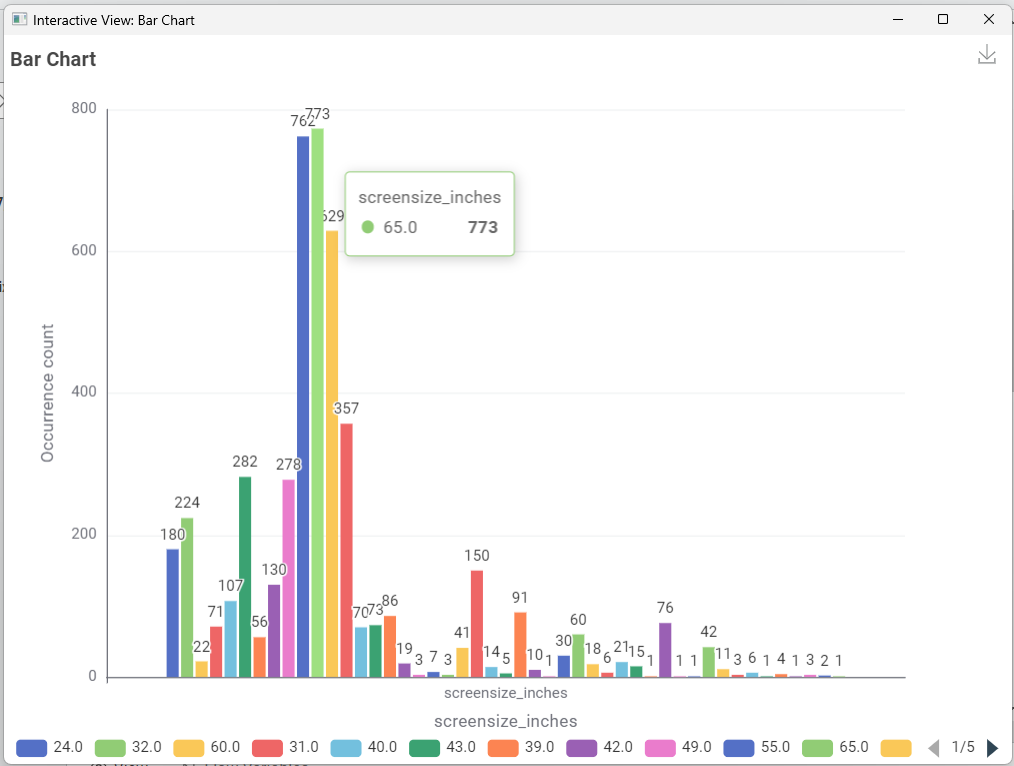
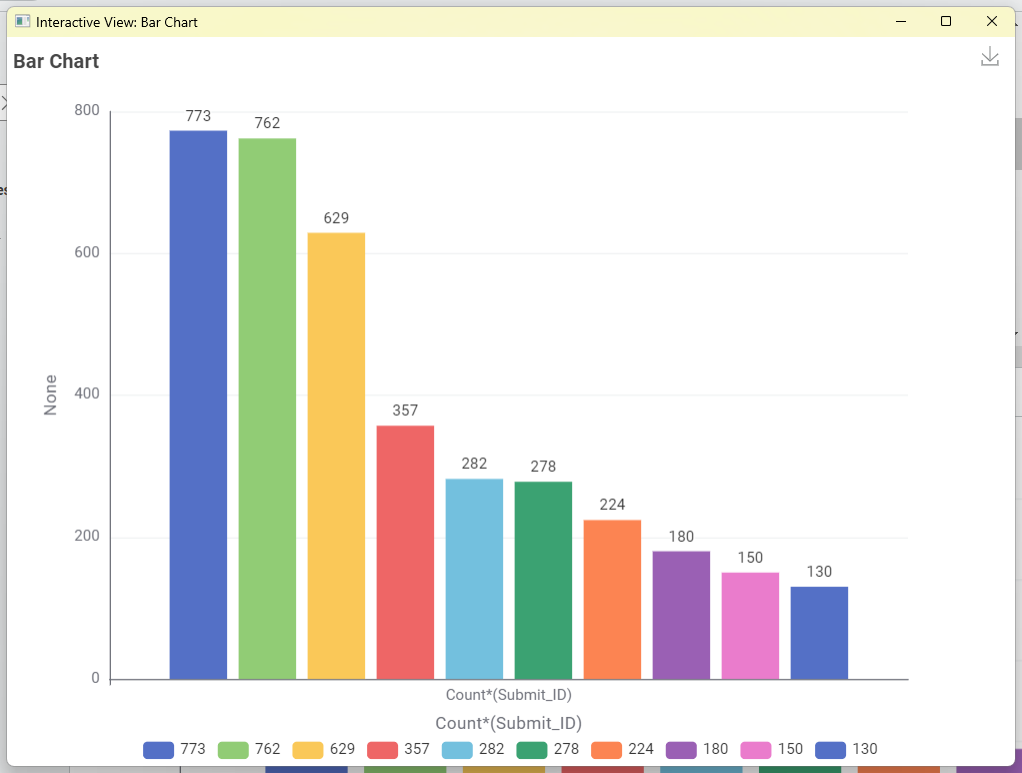
update

diff --git a/televisions.html b/televisions.html
@@ -47,10 +47,19 @@
           65-inch, and 75-inch televisions, indicating strong consumer preference for large-screen TVs.</p>
       </div>
       <div class="card">
-        <p>3. Which brands have the largest number of models?</p>
+        <p>3. Which brands have the greatest number of different models?</p>
+        <img src="images/Q3bar.png" alt="Q3 Bar Chart">
+        <p>Answer: Based on the visualisation, Kogan has the greatest number of different TV models available, with 809 models. 
+          This is followed by LG with 723 models and Samsung Electronics with 699 models. 
+          Other brands with notable model ranges include Samsung (497 models) and Hisense (327 models).</p>
       </div>
       <div class="card">
         <p>4. Which type of screen technology consumes the least amount of power?</p>
+        <img src="images/Q4bar.png" alt="Q4 Bar Chart">
+        <p>Answer: Based on the visualisation, LCD technology consumes the least amount of power, 
+          with a median average power consumption of approximately 71.35 W. 
+          In comparison, LCD (LED) screens consume about 106 W, while OLED screens have the highest median 
+          power consumption at 112.70 W.</p>
       </div>
       <div class="card">
         <p>5. What is the relationship between screen size and power use?</p>
@@ -71,21 +80,6 @@
       </div>
     </div>
 
-    <div class="card-grid">
-      <div class="card">
-        <h3>Placeholder statistic</h3>
-        <p>e.g. "A 65-inch LED TV used for 5 hours a day may consume roughly XX kWh per year" —
-        replace with real figures from Energy Rating data.</p>
-      </div>
-      <div class="card">
-        <h3>Placeholder statistic</h3>
-        <p>e.g. Comparison of average annual running cost between 43", 55" and 65" televisions.</p>
-      </div>
-      <div class="card">
-        <h3>Data visualisation space</h3>
-        <p>[ Insert chart / graph here for Televisions energy consumption task ]</p>
-      </div>
-    </div>
   </section>
 </main>
 

diff --git a/style.css b/style.css
@@ -146,11 +146,6 @@ h1 {
   margin-top: 12px;
 }
 
-.card h3 {
-  margin-top: 0;
-  color: var(--accent);
-}
-
 .card p {
   color: var(--text-dark);
   margin-bottom: 0;
